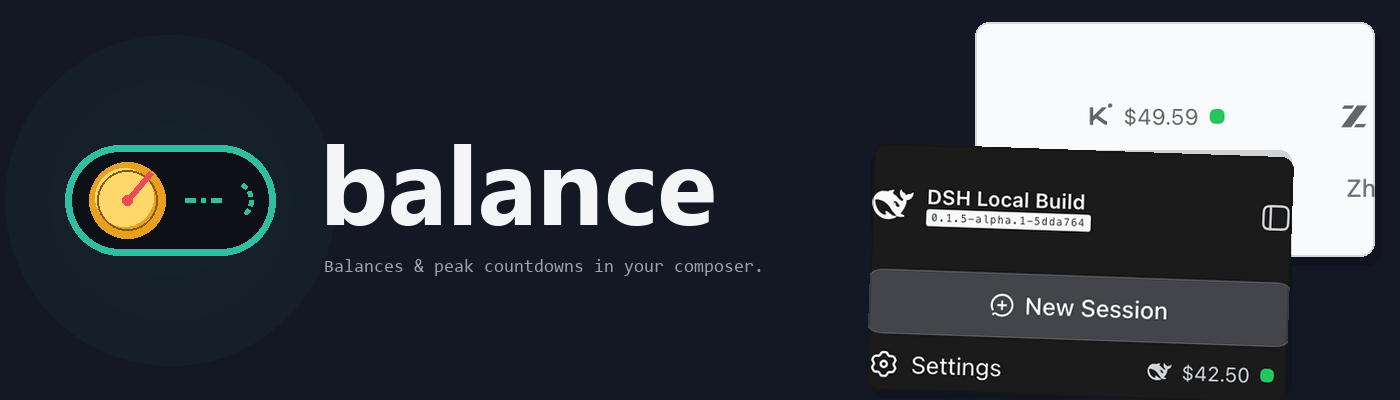
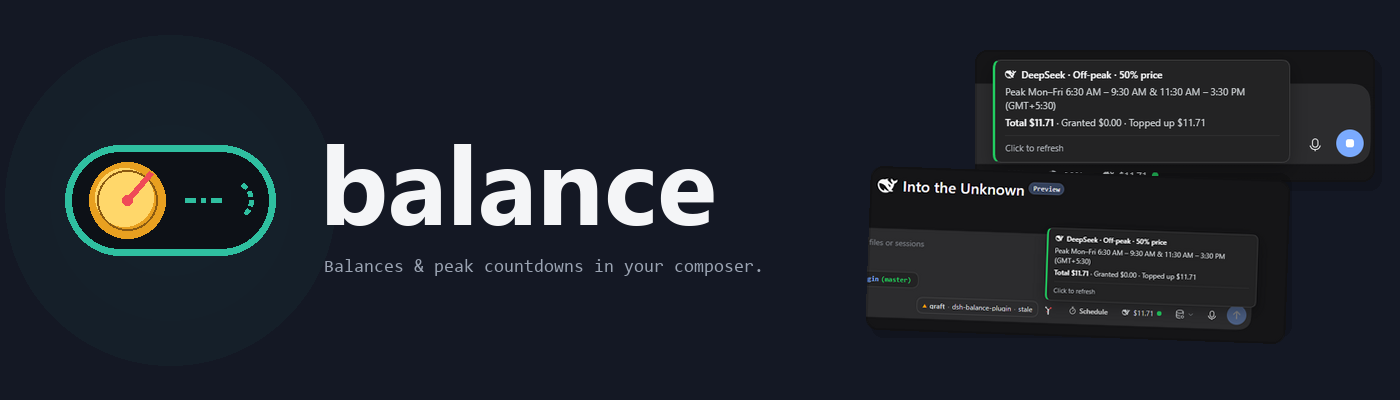
Wear the Qwen knot on the Alibaba chip; refresh README imagery
The Model Studio chip now carries the Qwen brand mark (LobeHub glyph)
instead of the Alibaba Cloud bracket: the billed models are Qwen-family
and the knot reads better at 14px. Design previews for the chip and
popover are rendered by scripts/make-chip-preview.py from the same path.

README screenshots move to the current composer-dock layout; the
pre-0.5.0 sidebar/footer/provider assets are removed and screenshots.json
follows. The CLI install command corrects to npm i -g bailian-cli with
the international-site login flag noted. The Alibaba popover drops its
duplicated usage line in favour of a per-model rate line.

diff --git a/src/client/index.tsx b/src/client/index.tsx
@@ -727,11 +727,11 @@ const ZHIPU_LOGO_PATH = 'M12.105 2L9.927 4.953H.653L2.83 2h9.276zM23.254 19.048L
 /** MiniMax brand mark, LobeHub 24×24 glyph — fills `currentColor`. */
 const MINIMAX_LOGO_PATH = 'M16.278 2c1.156 0 2.093.927 2.093 2.07v12.501a.74.74 0 00.744.709.74.74 0 00.743-.709V9.099a2.06 2.06 0 012.071-2.049A2.06 2.06 0 0124 9.1v6.561a.649.649 0 01-.652.645.649.649 0 01-.653-.645V9.1a.762.762 0 00-.766-.758.762.762 0 00-.766.758v7.472a2.037 2.037 0 01-2.048 2.026 2.037 2.037 0 01-2.048-2.026v-12.5a.785.785 0 00-.788-.753.785.785 0 00-.789.752l-.001 15.904A2.037 2.037 0 0113.441 22a2.037 2.037 0 01-2.048-2.026V18.04c0-.356.292-.645.652-.645.36 0 .652.289.652.645v1.934c0 .263.142.506.372.638.23.131.514.131.744 0a.734.734 0 00.372-.638V4.07c0-1.143.937-2.07 2.093-2.07zm-5.674 0c1.156 0 2.093.927 2.093 2.07v11.523a.648.648 0 01-.652.645.648.648 0 01-.652-.645V4.07a.785.785 0 00-.789-.78.785.785 0 00-.789.78v14.013a2.06 2.06 0 01-2.07 2.048 2.06 2.06 0 01-2.071-2.048V9.1a.762.762 0 00-.766-.758.762.762 0 00-.766.758v3.8a2.06 2.06 0 01-2.071 2.049A2.06 2.06 0 010 12.9v-1.378c0-.357.292-.646.652-.646.36 0 .653.29.653.646V12.9c0 .418.343.757.766.757s.766-.339.766-.757V9.099a2.06 2.06 0 012.07-2.048 2.06 2.06 0 012.071 2.048v8.984c0 .419.343.758.767.758.423 0 .766-.339.766-.758V4.07c0-1.143.937-2.07 2.093-2.07z'
 
-/** Alibaba Cloud brand mark (bracket-and-bar), LobeHub 24×24 glyph — two paths, both fill `currentColor`. */
-const ALIBABA_LOGO_PATHS = [
-  'M14.752 4.64h5.274C22.242 4.64 24 6.475 24 8.691V15.8a3.947 3.947 0 01-3.974 3.975h-5.274l1.299-1.835 3.822-1.222c.688-.23 1.146-.918 1.146-1.605v-5.81c0-.687-.458-1.375-1.146-1.605L16.05 6.475l-1.3-1.835zM2.98 15.111c0 .688.46 1.376 1.147 1.606l3.822 1.146 1.3 1.835H3.974A3.947 3.947 0 010 15.723V8.69c0-2.216 1.758-4.05 3.975-4.05h5.273L7.95 6.474 4.127 7.697c-.688.23-1.146.918-1.146 1.606v5.808z',
-  'M16.051 11.213H8.025v1.835h8.026v-1.835z',
-]
+/** Qwen brand mark (the Model Studio knot), LobeHub 24×24 glyph — fills
+ * `currentColor`. Alibaba Cloud Model Studio sessions wear the Qwen mark: the
+ * models being billed are Qwen-family, and the knot reads better at 14px than
+ * the Alibaba Cloud bracket. */
+const QWEN_LOGO_PATH = 'M19.713 2.825h-5.907c0-.251-.066-.503-.196-.728L12.819.728A1.46 1.46 0 0 0 11.559 0h-1.58c-.52 0-1 .275-1.26.728l-2.42 4.19a1.45 1.45 0 0 0 0 1.453l.791 1.37c.26.448.74.727 1.26.727h11.36c.52 0 1-.275 1.26-.728l.79-1.37a1.45 1.45 0 0 0 0-1.451l-.79-1.37a1.46 1.46 0 0 0-1.26-.728zM.195 9.905l2.951 5.115a1.46 1.46 0 0 0-.531.531l-.791 1.37a1.45 1.45 0 0 0 0 1.452l.79 1.37c.26.448.74.727 1.26.727h4.84c.52 0 1-.275 1.26-.728l.79-1.37a1.45 1.45 0 0 0 0-1.451L5.086 7.083a1.46 1.46 0 0 0-1.26-.728h-1.58c-.52 0-1 .276-1.26.728l-.79 1.37a1.45 1.45 0 0 0 0 1.452m15.888 13.367 2.951-5.115c.217.125.469.196.728.196h1.582c.52 0 1-.275 1.26-.728l.79-1.37a1.45 1.45 0 0 0 0-1.451l-2.42-4.191a1.46 1.46 0 0 0-1.259-.728h-1.582c-.52 0-1 .276-1.259.728l-5.678 9.838a1.45 1.45 0 0 0 0 1.452l.79 1.37c.26.448.74.727 1.26.727h1.582c.52 0 1-.275 1.26-.728z'
 
 /**
  * One or more LobeHub 24×24 brand-mark paths per provider, all filled with
@@ -745,7 +745,7 @@ const PROVIDER_LOGO_PATHS: Record<BalanceKind, string[]> = {
   moonshot: MOONSHOT_LOGO_PATHS,
   zhipu: [ZHIPU_LOGO_PATH],
   minimax: [MINIMAX_LOGO_PATH],
-  alibaba: ALIBABA_LOGO_PATHS,
+  alibaba: [QWEN_LOGO_PATH],
 }
 
 /**
@@ -940,6 +940,14 @@ export function tooltipLines(state: DisplayState, now: Date = new Date()): Toolt
       urgent: countdown !== undefined && ms <= URGENT_MS,
     })
     if (scope !== 'always') lines.push({ text: alibabaNightLocalLabel(now), muted: true })
+    if (state.discount !== undefined) {
+      lines.push({
+        text: scope === 'always'
+          ? `Limited-time −${state.discount}% around the clock`
+          : 'Qwen −40% · DeepSeek-on-plan −50% during nights',
+        muted: true,
+      })
+    }
     if (state.usedPercent !== undefined) {
       const reset = typeof state.resetAt === 'number' && state.resetAt > now.getTime()
         ? ` · resets in ${formatCountdown(state.resetAt - now.getTime())}`
@@ -951,7 +959,9 @@ export function tooltipLines(state: DisplayState, now: Date = new Date()): Toolt
   } else {
     lines.push({ text: state.heading })
   }
-  lines.push({ text: state.detail, detail: true })
+  // Alibaba's usage line already carries the breakdown; repeating state.detail
+  // would print the same sentence twice.
+  if (state.provider !== 'alibaba') lines.push({ text: state.detail, detail: true })
   lines.push({ text: 'Click to refresh', muted: true })
   return lines
 }

diff --git a/scripts/make-chip-preview.py b/scripts/make-chip-preview.py
@@ -1,0 +1,96 @@
+"""Render design previews of the Alibaba Cloud chip and popover.
+
+Draws assets/chip-alibaba.png (dock strip segment) and
+assets/popover-alibaba.png (hover popover) in the dsh dark-accent idiom, so the
+README can show the sixth provider before a live session screenshot exists.
+Run: python scripts/make-chip-preview.py [-]  ('-' emits base64 PNG lines).
+"""
+from pathlib import Path
+import base64
+import io
+import sys
+
+from PIL import Image, ImageDraw, ImageFont
+
+ROOT = Path(__file__).resolve().parent.parent
+ASSETS = ROOT / "assets"
+STDOUT = len(sys.argv) > 1 and sys.argv[1] == "-"
+
+STRIP = (35, 36, 39)
+CARD = (38, 39, 42)
+BORDER = (63, 64, 67)
+LABEL = (154, 160, 166)
+PRIMARY = (232, 232, 232)
+TEAL = (47, 191, 160)
+GREEN = (76, 175, 80)
+
+REG = "C:/Windows/Fonts/segoeui.ttf"
+BOLD = "C:/Windows/Fonts/segoeuib.ttf"
+MARK = Image.open(ASSETS / "qwen-mark.png").convert("RGBA")
+
+
+def mix(fg, bg, pct):
+    return tuple(round(f * pct / 100 + b * (100 - pct) / 100) for f, b in zip(fg, bg))
+
+
+def mark(img, x, y, color, s=14):
+    """The Qwen knot, rasterized from the LobeHub glyph (assets/qwen-mark.png)."""
+    m = MARK.resize((s, s), Image.LANCZOS)
+    tint = Image.new("RGBA", (s, s), color + (255,))
+    tint.putalpha(m.getchannel("A"))
+    img.paste(tint, (x, y), tint)
+
+
+def clock(d, cx, cy, color, r=5):
+    d.ellipse([cx - r, cy - r, cx + r, cy + r], outline=color, width=1)
+    d.line([(cx, cy), (cx + 3, cy - 3)], fill=color, width=1)
+
+
+def emit(img, name):
+    if STDOUT:
+        buf = io.BytesIO()
+        img.save(buf, format="PNG")
+        print(f"{name}\t{base64.b64encode(buf.getvalue()).decode()}")
+    else:
+        img.save(ASSETS / name)
+        print("wrote", name)
+
+
+def chip():
+    img = Image.new("RGB", (340, 36), STRIP)
+    d = ImageDraw.Draw(img)
+    f = ImageFont.truetype(REG, 12)
+    fb = ImageFont.truetype(BOLD, 11)
+    mark(img, 10, 11, LABEL)
+    d.text((30, 18), "4.22%", font=f, fill=LABEL, anchor="lm")
+    d.ellipse([70, 14, 78, 22], fill=GREEN)
+    pill = "−40% · 6h 02m"
+    tw = d.textlength(pill, font=fb)
+    x0, x1 = 88, 88 + 14 + 6 + tw + 14
+    d.rounded_rectangle([x0, 9, x1, 27], 9, fill=mix(TEAL, STRIP, 14), outline=mix(TEAL, STRIP, 38), width=1)
+    clock(d, x0 + 10, 18, TEAL)
+    d.text((x0 + 20, 18), pill, font=fb, fill=TEAL, anchor="lm")
+    emit(img, "chip-alibaba.png")
+
+
+def popover():
+    w, h = 470, 152
+    img = Image.new("RGB", (w, h), (24, 25, 28))
+    d = ImageDraw.Draw(img)
+    d.rounded_rectangle([4, 4, w - 5, h - 5], 8, fill=CARD, outline=BORDER, width=1)
+    d.rounded_rectangle([4, 4, 7, h - 5], 2, fill=TEAL)
+    f = ImageFont.truetype(REG, 12)
+    fb = ImageFont.truetype(BOLD, 12)
+    mark(img, 16, 14, PRIMARY, 13)
+    d.text((34, 21), "Token Plan · Night −40% now", font=fb, fill=PRIMARY, anchor="lm")
+    d.text((w - 16, 21), "day in 6h 02m", font=fb, fill=TEAL, anchor="rm")
+    d.text((16, 44), "Nights 7:30 PM – 5:30 AM (GMT+5:30)", font=f, fill=LABEL, anchor="lm")
+    d.text((16, 63), "Qwen −40% · DeepSeek-on-plan −50% during nights", font=f, fill=LABEL, anchor="lm")
+    d.text((16, 82), "4.22% of 1-month credits used · resets in 1d 6h", font=f, fill=LABEL, anchor="lm")
+    d.line([(16, 102), (w - 16, 102)], fill=BORDER, width=1)
+    d.text((16, 122), "Click to refresh", font=f, fill=LABEL, anchor="lm")
+    emit(img, "popover-alibaba.png")
+
+
+chip()
+popover()

diff --git a/scripts/make-banner.py b/scripts/make-banner.py
@@ -90,8 +90,8 @@ def banner(bg: tuple, ink: tuple, tag: tuple, pill: tuple, out: str):
     d.text((320, 225), "balance", font=ImageFont.truetype(FONT_BOLD, 110), fill=ink, anchor="ls")
     d.text((324, 272), "Balances & peak countdowns in your composer.",
            font=ImageFont.truetype(FONT_MONO, 18), fill=tag, anchor="ls")
-    card(base, Image.open(ASSETS / "providers.png"), 975, 22, 400, 235, 14)
-    card(base, Image.open(ASSETS / "sidebar-dark.png"), 865, 142, 420, 247, 12, angle=-2)
+    card(base, Image.open(ASSETS / "popover-close.png"), 975, 50, 400, 132, 12)
+    card(base, Image.open(ASSETS / "popover-dock.png"), 865, 165, 420, 164, 12, angle=-2)
     if STDOUT:
         buf = io.BytesIO()
         base.convert("RGB").save(buf, format="PNG")

diff --git a/README.md b/README.md
@@ -66,7 +66,7 @@ Sits at the right end of the composer dock, after the context meter:
 
 Hovering opens the popover; clicking refreshes. The amount is never dropped for the label's sake, and the pill, dot and popover all paint with dsh's own `--dsw-*` theme variables, so they follow the active theme.
 
-![The chip and its hover popover](assets/chip-deepseek.png)
+![The chip and its hover popover in the composer dock](assets/popover-dock.png)
 
 ### The providers
 
@@ -79,18 +79,24 @@ Hovering opens the popover; clicking refreshes. The amount is never dropped for 
 | Zhipu / GLM (Z.ai) | account report (bigmodel / z.ai mirrors) | — |
 | MiniMax | `/v1/token_plan/remains` | — |
 
-The provider follows the session's model selection, including modlens vision wrappers and custom openai-compat channels aimed at Model Studio (Qwen model names identify those).
+The provider follows the session's model selection, including modlens vision wrappers and custom openai-compat channels aimed at Model Studio (Qwen model names identify those). Model Studio sessions wear the **Qwen knot** on the chip — the models being billed are Qwen-family, and the knot reads better at 14px than the Alibaba Cloud bracket.
 
 ### Alibaba usage percentages
 
 Model Studio's quota gateway accepts console-login or AccessKey-derived tokens only — never a model API key — so the chip reads your usage through the official CLI instead of storing any secret:
 
 ```sh
-npm install -g @modelstudio/cli
-bl auth login --console        # browser login; or --open-api with an AccessKey pair
+npm install -g bailian-cli
+bl auth login --console        # browser login; international accounts add --console-site international
 ```
 
 With `bl` installed and logged in, the chip shows percent used and the window reset countdown (`4.22% · resets in 1d 6h`); without it, the chip runs in night-discount-only mode and says where the credits live. Readings cache for five minutes.
+
+Design previews of the Alibaba chip and popover (rendered by `scripts/make-chip-preview.py`; a live session shows your own numbers):
+
+![Alibaba chip design preview](assets/chip-alibaba.png)
+
+![Alibaba popover design preview](assets/popover-alibaba.png)
 
 ## Configuration
 
@@ -117,6 +123,7 @@ pnpm run build                  # tsdown: host ESM + client CJS
 node scripts/verify-client.mjs  # bundle contract, slot registration, provider resolution
 node --test test/*.test.mjs     # 33 tests against the built bundle
 python scripts/make-banner.py   # regenerate the README banners (Pillow)
+python scripts/make-chip-preview.py  # regenerate the Alibaba design previews
 ```
 
 ## Troubleshooting

diff --git a/README.zh-CN.md b/README.zh-CN.md
@@ -66,7 +66,7 @@ https://github.com/adithyanraj03/dsh-balance-plugin
 
 悬停打开弹层；点击刷新。金额永远不会为标签让位；药丸、状态点与弹层全部使用 dsh 自己的 `--dsw-*` 主题变量绘制，跟随当前主题。
 
-![胶囊及其悬停弹层](assets/chip-deepseek.png)
+![composer dock 中的胶囊及其悬停弹层](assets/popover-dock.png)
 
 ### 服务商
 
@@ -79,18 +79,24 @@ https://github.com/adithyanraj03/dsh-balance-plugin
 | 智谱 / GLM（Z.ai） | 账户报告（bigmodel / z.ai 镜像） | — |
 | MiniMax | `/v1/token_plan/remains` | — |
 
-服务商跟随会话的模型选择，包括 modlens 视觉包装路由，以及指向百炼的自定义 openai-compat 通道（Qwen 模型名即可识别）。
+服务商跟随会话的模型选择，包括 modlens 视觉包装路由，以及指向百炼的自定义 openai-compat 通道（Qwen 模型名即可识别）。百炼会话的胶囊佩戴 **Qwen 结**标识——被计费的是 Qwen 系模型，且该标识在 14px 下比阿里云括号更清晰。
 
 ### 阿里云用量百分比
 
 百炼的配额网关只接受控制台登录或 AccessKey 换发的 token——绝不接受模型 API key——因此胶囊通过官方 CLI 读取用量，而不存储任何密钥：
 
 ```sh
-npm install -g @modelstudio/cli
-bl auth login --console        # 浏览器登录；或 --open-api 配 AccessKey
+npm install -g bailian-cli
+bl auth login --console        # 浏览器登录；国际站账号加 --console-site international
 ```
 
 `bl` 已安装并登录后，胶囊显示已用百分比与窗口重置倒计时（`4.22% · resets in 1d 6h`）；否则胶囊运行在仅夜间折扣模式，并说明额度在控制台查看。读数缓存五分钟。
+
+阿里云胶囊与弹层的设计预览（由 `scripts/make-chip-preview.py` 渲染；实际会话显示你自己的数字）：
+
+![阿里云胶囊设计预览](assets/chip-alibaba.png)
+
+![阿里云弹层设计预览](assets/popover-alibaba.png)
 
 ## 配置
 
@@ -117,6 +123,7 @@ pnpm run build                  # tsdown：宿主 ESM + 客户端 CJS
 node scripts/verify-client.mjs  # bundle 契约、slot 注册、服务商解析
 node --test test/*.test.mjs     # 33 个针对构建产物的测试
 python scripts/make-banner.py   # 重新生成 README 横幅（Pillow）
+python scripts/make-chip-preview.py  # 重新生成阿里云设计预览
 ```
 
 ## 故障排查

diff --git a/CHANGELOG.md b/CHANGELOG.md
@@ -8,6 +8,28 @@ Every release is also published on [GitHub Releases](https://github.com/adithyan
 The unscoped `dsh-balance-plugin` name on npm belongs to an unrelated package, so this
 project is not published there.
 
+## [0.12.1] — 2026-11-11
+
+### Changed
+
+- The Alibaba chip wears the **Qwen knot** (LobeHub glyph) instead of the
+  Alibaba Cloud bracket: the models being billed are Qwen-family, and the knot
+  reads better at 14px.
+- README screenshots now show the current composer-dock layout
+  (`popover-dock.png`, `popover-close.png`); the pre-0.5.0 sidebar, footer and
+  provider-strip assets are removed and `screenshots.json` follows.
+- Alibaba design previews (`chip-alibaba.png`, `popover-alibaba.png`) rendered
+  by `scripts/make-chip-preview.py`, with the Qwen mark rasterized from the
+  same LobeHub path the chip uses.
+- The CLI install command is `npm install -g bailian-cli` — the published
+  package name — with `--console-site international` noted for intl accounts.
+
+### Fixed
+
+- The Alibaba popover no longer prints the usage sentence twice: the shared
+  breakdown line is skipped for Alibaba, and a per-model rate line
+  (`Qwen −40% · DeepSeek-on-plan −50% during nights`) takes its place.
+
 ## [0.12.0] — 2026-11-11
 
 ### Added
